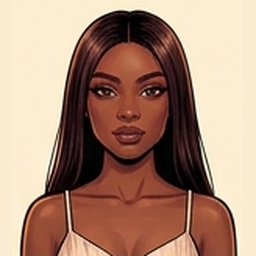
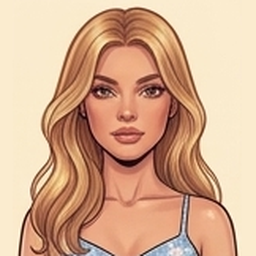
Six playable heroines picked before each story; add last 5 portraits and matching outfit portraits
Claude-Session: https://claude.ai/code/session_016rM1115YH3qzXkGEmQJnnH

diff --git a/source/main.cpp b/source/main.cpp
@@ -337,6 +337,7 @@ struct Game {
     Look me;
     string myName = "You";
     vector<string> owned;
+    int hero = -1;          // -1 = my Style File look, 0-5 = illustrated heroine
 };
 static Game G;
 static const char* SAVE_DIR  = "sdmc:/3ds/NannyDiaries";          // kept: old saves still load
@@ -352,6 +353,7 @@ static void saveGame() {
     fprintf(f, "wardrobe %d %d %d\n", G.me.outfit, G.me.hoops ? 1 : 0, V("redo"));
     string nm = G.myName; for (auto& c : nm) if (c == ' ') c = '_';
     fprintf(f, "name %s\n", nm.c_str());
+    fprintf(f, "hero %d\n", G.hero);
     for (auto& s : G.stickers) fprintf(f, "sticker %s\n", s.c_str());
     for (auto& s : G.done)     fprintf(f, "done %s\n", s.c_str());
     for (auto& o : G.owned)    fprintf(f, "own %s\n", o.c_str());
@@ -369,6 +371,7 @@ static bool loadGame() {
         else if (k == "wardrobe") { int o, h, r; in >> o >> h >> r; G.me.outfit = o; G.me.hoops = h; V("redo") = r;
                                     G.me.shirt = OUTFIT_C[o % 6]; }
         else if (k == "name") { in >> G.myName; for (auto& c : G.myName) if (c == '_') c = ' '; }
+        else if (k == "hero") in >> G.hero;
         else if (k == "sticker") { string s; in >> s; G.stickers.insert(s); }
         else if (k == "done") { string s; in >> s; G.done.insert(s); }
         else if (k == "own") { string s; in >> s; G.owned.push_back(s); }
@@ -521,7 +524,9 @@ static void drawPolaroid(float x, float y, float w, float h, const Look& L, cons
     circ(px + pw * 0.8f, py + ph * 0.75f, 18, withA(GOLD_LT, 0x50), 0.33f);
     bool art = false;
     if (!artId.empty()) {
-        if (artId == "me") art = drawArt("me_" + std::to_string(L.outfit), talk, px, py, pw, ph, 0.34f) || drawArt("me", talk, px, py, pw, ph, 0.34f);
+        if (artId == "me" && G.hero >= 0) art = drawArt("hero_" + std::to_string(G.hero), talk, px, py, pw, ph, 0.34f);
+        if (art) {}
+        else if (artId == "me") art = drawArt("me_" + std::to_string(L.outfit), talk, px, py, pw, ph, 0.34f) || drawArt("me", talk, px, py, pw, ph, 0.34f);
         else art = drawArt(artId, talk, px, py, pw, ph, 0.34f);
     }
     if (art) { vgrad(px, py + ph - 24, pw, 24, withA(COCOA, 0), withA(COCOA, 0x40), 0.35f); }   // soft cinematic vignette
@@ -962,6 +967,49 @@ static void runDiary() {
     }
 }
 
+// =============== WHO ARE YOU THIS TIME? (heroine picker) ===============
+static const char* HERO_N[] = {"Mirror Selfie","On Set","Study Date","Night Out","Snow Day","Old Money"};
+static const char* HERO_T[] = {"Main-character energy and a boyfriend in every pic.","Crossed arms, sharp eyes, zero patience for drama.",
+                               "Sweet, curly, and secretly the smartest girl here.","Says exactly what everyone else is thinking.",
+                               "Pink fur, soft waves, a little mysterious.","Pearls, slick pony, quiet luxury."};
+static void runHeroPick() {
+    int sel = G.hero < 0 ? 6 : G.hero; const int N = 7;
+    while (aptMainLoop()) {
+        pollInput();
+        if (kDown & KEY_DOWN) sel = (sel + 1) % N;
+        if (kDown & KEY_UP) sel = (sel + N - 1) % N;
+        if (kDown & KEY_RIGHT) sel = (sel + 1) % N;
+        if (kDown & KEY_LEFT) sel = (sel + N - 1) % N;
+        int pick = -1;
+        for (int i = 0; i < N; i++) { float x = 16 + (i % 2) * 148, y = 32 + (i / 2) * 44; float w = i == 6 ? 288 : 140;
+            if (tapIn(x, y, w, 38)) { if (sel == i) pick = i; sel = i; } }
+        if (kDown & KEY_A) pick = sel;
+        if (pick >= 0) { G.hero = pick == 6 ? -1 : pick; saveGame(); return; }
+        gFrame++;
+        int was = G.hero; G.hero = sel == 6 ? -1 : sel;   // preview
+        beginFrame();
+        C2D_SceneBegin(gTop);
+        drawSunset(400, 240, gBg);
+        drawPaper(14, 18, 210, 206, false, 0.3f);
+        kicker("Cast Your Lead", 28, 30, GOLD);
+        drawText(gStoryTitle.empty() ? "Who are you?" : gStoryTitle, 28, 42, 0.7f, COCOA, 186, AL_LEFT, F_SERIF);
+        goldRule(28, 72, 180);
+        drawText(sel == 6 ? "Your Style File Look" : HERO_N[sel], 28, 84, 0.72f, PLUM, 186, AL_LEFT, F_SERIF);
+        drawText(sel == 6 ? "The girl you designed, in whatever you're wearing." : HERO_T[sel], 28, 114, 0.46f, INK, 186, AL_LEFT, F_ITALIC);
+        drawText("starring " + G.myName, 28, 196, 0.45f, MAUVE, 0, AL_LEFT, F_ITALIC);
+        drawPolaroid(240, 16, 148, 196, G.me, sel == 6 ? G.myName : HERO_N[sel], 0, false, gBg, "me");
+        G.hero = was;
+        C2D_SceneBegin(gBot);
+        rect(0, 0, 320, 240, IVORY, 0.1f);
+        kicker("Who Are You This Time?", 160, 10, GOLD, AL_CENTER);
+        for (int i = 0; i < N; i++) {
+            float x = 16 + (i % 2) * 148, y = 32 + (i / 2) * 44, w = i == 6 ? 288 : 140;
+            drawButton(x, y, w, 38, i == 6 ? "My Style File Look" : HERO_N[i], i == sel);
+        }
+        C3D_FrameEnd(0);
+    }
+}
+
 // =============== SEASON FINALE (story endings) ===============
 static void runEnding(bool good, const string& title, const string& text, const string& sticker) {
     int t = 0;
@@ -1075,6 +1123,7 @@ static void runScript(const string& start) {
         else if (L.cmd == "findcat") runFindCat();
         else if (L.cmd == "save")    saveGame();
         else if (L.cmd == "diary")   runDiary();
+        else if (L.cmd == "pickhero") runHeroPick();
         else if (L.cmd == "reset")   { int h = V("hearts"), r = V("redo"); G.vars.clear();
                                        V("hearts") = h; V("redo") = r; V("happy") = 3; V("tired") = 1; V("hungry") = 2;
                                        gStoryTitle = ""; gStoryKey = ""; gBondVar = ""; gBondLabel = ""; }
